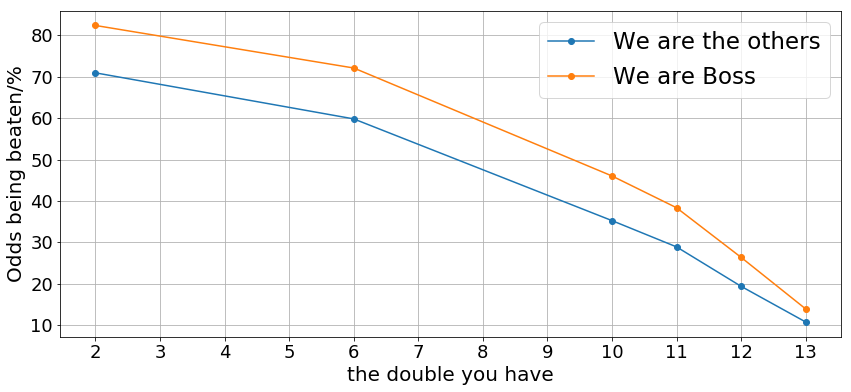
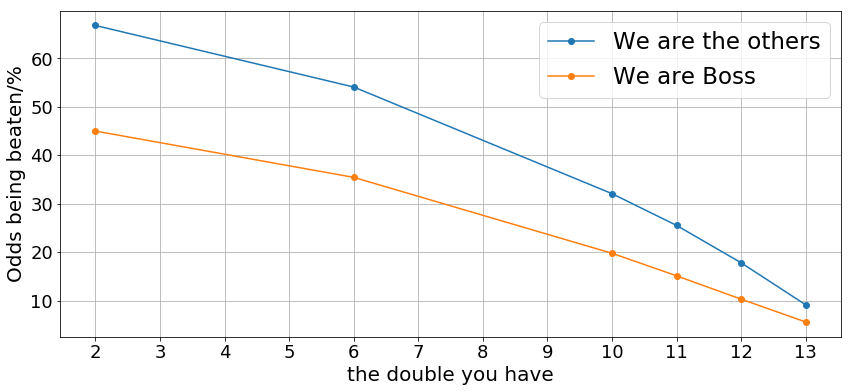
Site updated: 2020-03-01 23:53:02

diff --git a/2020/02/29/升级-拖拉机-纸牌游戏/index.html b/2020/02/29/升级-拖拉机-纸牌游戏/index.html
@@ -116,7 +116,7 @@
 <meta property="og:image" content="/images/%E6%8B%96%E6%8B%89%E6%9C%BA_%E4%B8%BB%E7%89%8C%E6%95%B0.png">
 <meta property="og:image" content="/images/%E6%8B%96%E6%8B%89%E6%9C%BA_%E5%AF%B9%E8%A2%AB%E6%89%93%E8%B4%A5%E6%A6%82%E7%8E%87.png">
 <meta property="article:published_time" content="2020-02-28T16:18:57.000Z">
-<meta property="article:modified_time" content="2020-03-01T06:59:47.003Z">
+<meta property="article:modified_time" content="2020-03-01T12:08:18.946Z">
 <meta property="article:author" content="Hong Xunyang">
 <meta property="article:tag" content="生活">
 <meta name="twitter:card" content="summary">
@@ -457,17 +457,17 @@
 <p>以上的叙述都是基于经验而来, 有一定的道理. 下面我们真正计算一下上面几种情况, 出牌被打败的概率. 显然, 这个问题也要分庄家和非庄家来看. 同样用随机发牌3万次, 统计对手能够打败自己的次数. 计算结果如下:  </p>
 <p><strong>自己是非庄家时</strong></p>
 <ol>
-<li><font color=blue> 如果自己手里有对10, 那么两个对手之一能够打败自己(有比10大的同花色对, 例如对J, 对A等)的概率是46% </font></li>
-<li><font color=blue> 如果自己手里有对K, 那么两个对手之一能够打败自己的概率是15% </font></li>
-<li><font color=blue> 如果自己手里只有对2, 那么被打败的概率则有83% </font>
+<li><font color=blue> 如果自己手里有对10, 那么两个对手之一能够打败自己(有比10大的同花色对, 例如对J, 对A等)的概率是32% </font></li>
+<li><font color=blue> 如果自己手里有对K, 那么两个对手之一能够打败自己的概率是10% </font></li>
+<li><font color=blue> 如果自己手里只有对2, 那么被打败的概率则有66% </font>
 
 </li>
 </ol>
 <p><strong>自己是庄家时</strong></p>
 <ol>
-<li><font color=red> 如果自己手里有对10, 被打败的概率是36% </font></li>
-<li><font color=red> 如果自己手里有对K, 被打败10% </font></li>
-<li><font color=red> 如果自己手里只有对2, 被打败的概率则有71% </font> 
+<li><font color=red> 如果自己手里有对10, 被打败的概率是20% </font></li>
+<li><font color=red> 如果自己手里有对K, 被打败5% </font></li>
+<li><font color=red> 如果自己手里只有对2, 被打败的概率则有45% </font> 
 
 </li>
 </ol>
@@ -475,9 +475,9 @@
 <p><img src="/images/拖拉机_对被打败概率.png" alt=""></p>
 <center> <font size=3> 横坐标是你出的对, 纵坐标则是这个对被人打败的概率. 蓝色是非庄家情况, 橙色则是庄家的情况</font> </center>
 
-<p><strong>按照这个标准, 非庄家至少要出对Q; 而庄家则至少要出对J.</strong></p>
+<p><strong>按照这个标准, 非庄家至少要出对10; 而庄家则至少要出对8或对7.</strong></p>
 <p>当然, 在实战中可以快速地计算各个对被打败的概率. 在小于10的对中, 我们可以采用线性插值的方式大致地计算出对N被打败的概率. 对非庄家来说: 斜率为</p>
-<script type="math/tex; mode=display">k=\frac{46-83}{8}=-5\%</script><p>也就是说, 我们可以大概估计: 比对3大的概率是83-5=78%; 比对4大的概率是: 73%; 比对5大的概率是68…比对10大的概率是46%. 非庄家则在这个基础上减去10%的概率.</p>
+<script type="math/tex; mode=display">k=\frac{32-66}{8}=-4\%</script><p>也就是说, 我们可以大概估计: 比对3大的概率是66-4=62%; 比对4大的概率是: 58%; 比对5大的概率是54…比对10大的概率是33%. 自己是庄家则在这个基础上减去10%的概率.</p>
 <h1 id="博弈策略"><a href="#博弈策略" class="headerlink" title="博弈策略"></a>博弈策略</h1><p>需要解决的问题</p>
 <ol>
 <li>上面计算过的概率, 多大的概率是阈值, 超过阈值该做什么动作?</li>

diff --git a/2020/03/01/拖拉机-升级-概率计算/index.html b/2020/03/01/拖拉机-升级-概率计算/index.html
@@ -117,7 +117,7 @@
 <meta property="og:image" content="/images/%E6%8B%96%E6%8B%89%E6%9C%BA_%E5%AF%B9%E8%A2%AB%E6%89%93%E8%B4%A5%E6%A6%82%E7%8E%87.png">
 <meta property="og:image" content="/images/%E6%8B%96%E6%8B%89%E6%9C%BA_%E5%AF%B9%E8%A2%AB%E6%89%93%E8%B4%A5%E6%A6%82%E7%8E%87.png">
 <meta property="article:published_time" content="2020-03-01T07:01:31.000Z">
-<meta property="article:modified_time" content="2020-03-01T07:24:11.761Z">
+<meta property="article:modified_time" content="2020-03-01T15:52:26.375Z">
 <meta property="article:author" content="Hong Xunyang">
 <meta property="article:tag" content="生活">
 <meta property="article:tag" content="纸牌">
@@ -453,17 +453,17 @@
 <p><img src="/images/拖拉机_对被打败概率.png" alt=""></p>
 <p><strong>自己是非庄家时</strong></p>
 <ol>
-<li><font color=blue> 如果自己手里有对10, 那么两个对手之一能够打败自己(有比10大的同花色对, 例如对J, 对A等)的概率是46% </font></li>
-<li><font color=blue> 如果自己手里有对K, 那么两个对手之一能够打败自己的概率是15% </font></li>
-<li><font color=blue> 如果自己手里只有对2, 那么被打败的概率则有83% </font>
+<li><font color=blue> 如果自己手里有对10, 那么两个对手之一能够打败自己(有比10大的同花色对, 例如对J, 对A等)的概率是32% </font></li>
+<li><font color=blue> 如果自己手里有对K, 那么两个对手之一能够打败自己的概率是10% </font></li>
+<li><font color=blue> 如果自己手里只有对2, 那么被打败的概率则有66% </font>
 
 </li>
 </ol>
 <p><strong>自己是庄家时</strong></p>
 <ol>
-<li><font color=red> 如果自己手里有对10, 被打败的概率是36% </font></li>
-<li><font color=red> 如果自己手里有对K, 被打败10% </font></li>
-<li><font color=red> 如果自己手里只有对2, 被打败的概率则有71% </font> 
+<li><font color=red> 如果自己手里有对10, 被打败的概率是20% </font></li>
+<li><font color=red> 如果自己手里有对K, 被打败5% </font></li>
+<li><font color=red> 如果自己手里只有对2, 被打败的概率则有45% </font> 
 
 </li>
 </ol>
@@ -471,9 +471,9 @@
 <p><img src="/images/拖拉机_对被打败概率.png" alt=""></p>
 <center> <font size=3> 横坐标是你出的对, 纵坐标则是这个对被人打败的概率. 蓝色是非庄家情况, 橙色则是庄家的情况</font> </center>
 
-<p><strong>按照这个标准, 非庄家至少要出对Q; 而庄家则至少要出对J.</strong></p>
+<p><strong>按照这个标准, 非庄家至少要出对10; 而庄家则至少要出对8或对7.</strong></p>
 <p>当然, 在实战中可以快速地计算各个对被打败的概率. 在小于10的对中, 我们可以采用线性插值的方式大致地计算出对N被打败的概率. 对非庄家来说: 斜率为</p>
-<script type="math/tex; mode=display">k=\frac{46-83}{8}=-5\%</script><p>也就是说, 我们可以大概估计: 比对3大的概率是83-5=78%; 比对4大的概率是: 73%; 比对5大的概率是68…比对10大的概率是46%. 非庄家则在这个基础上减去10%的概率.</p>
+<script type="math/tex; mode=display">k=\frac{32-66}{8}=-4\%</script><p>也就是说, 我们可以大概估计: 比对3大的概率是66-4=62%; 比对4大的概率是: 58%; 比对5大的概率是54…比对10大的概率是33%. 自己是庄家则在这个基础上减去10%的概率.</p>
 
       
     </div>
